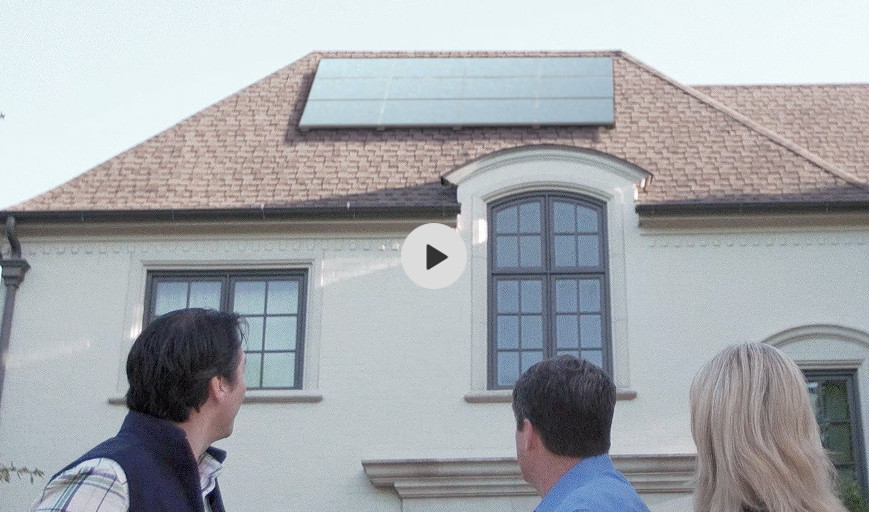
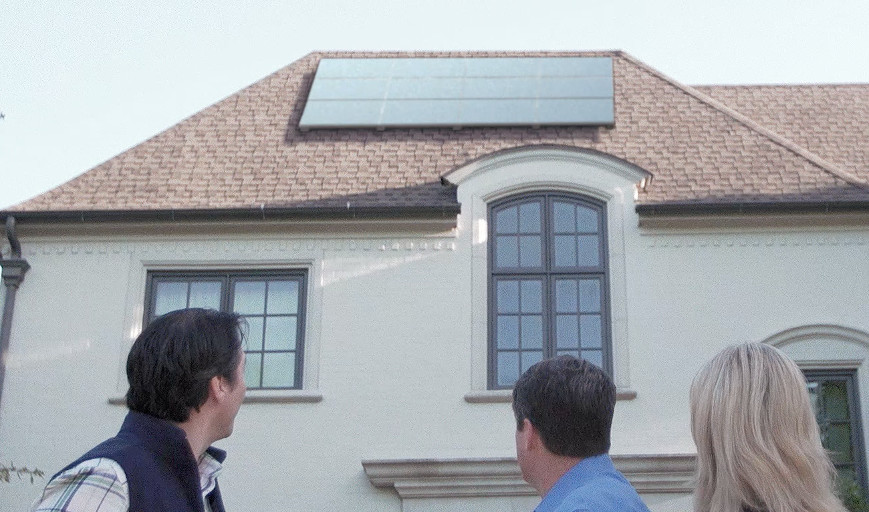
Removed Why MyDomino section.  Added new play button over static image with Watch the video text beneath.  Added overlay atop static image to give play button and text a higher degree of contrast.

Changed region(s): [[0.4661, 0.4375, 0.5593, 0.5625]]

diff --git a/app/assets/stylesheets/_shame.scss b/app/assets/stylesheets/_shame.scss
@@ -503,11 +503,22 @@ body.lock-position {
   position: fixed;
 }
 
-#hp-video-placeholder{
+#hp-mobile-video-module{
+  position: relative;
+  height: 420px;
   background-image: image-url('homepage-video-placeholder.jpg');
   background-repeat: no-repeat;
   background-size: cover;
   background-position: 50% 50%;
+  &:before {
+    content: '';
+    position: absolute;
+    top: 0;
+    right: 0;
+    bottom: 0;
+    left: 0;
+    background-color: rgba(0,0,0,0.3);
+  }
 }
 
 /* accordion element on FAQ page */
